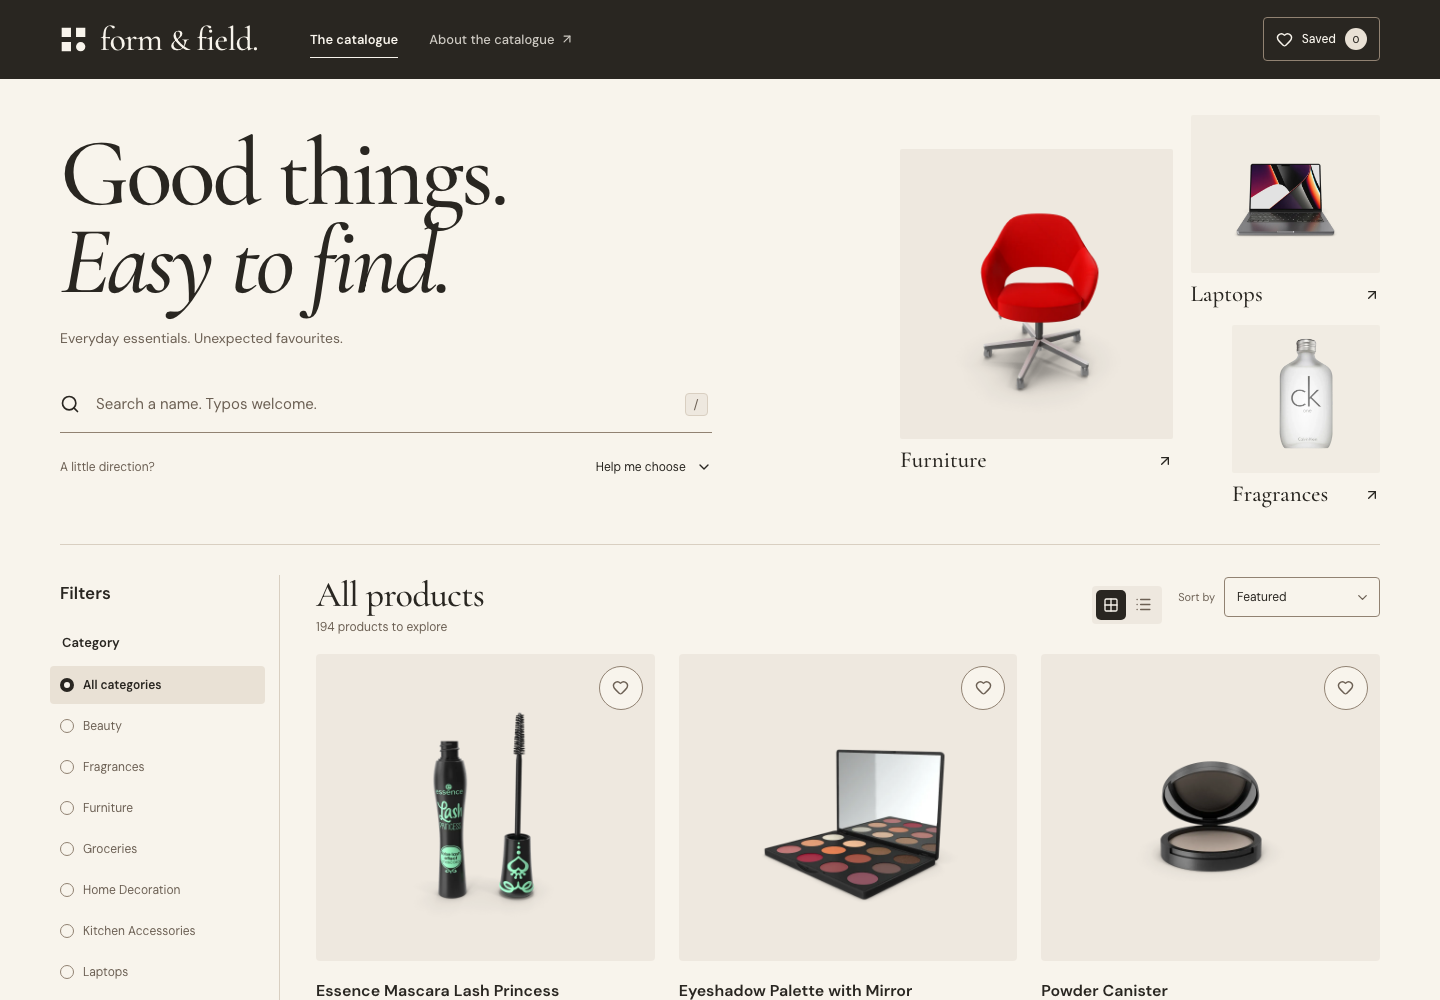
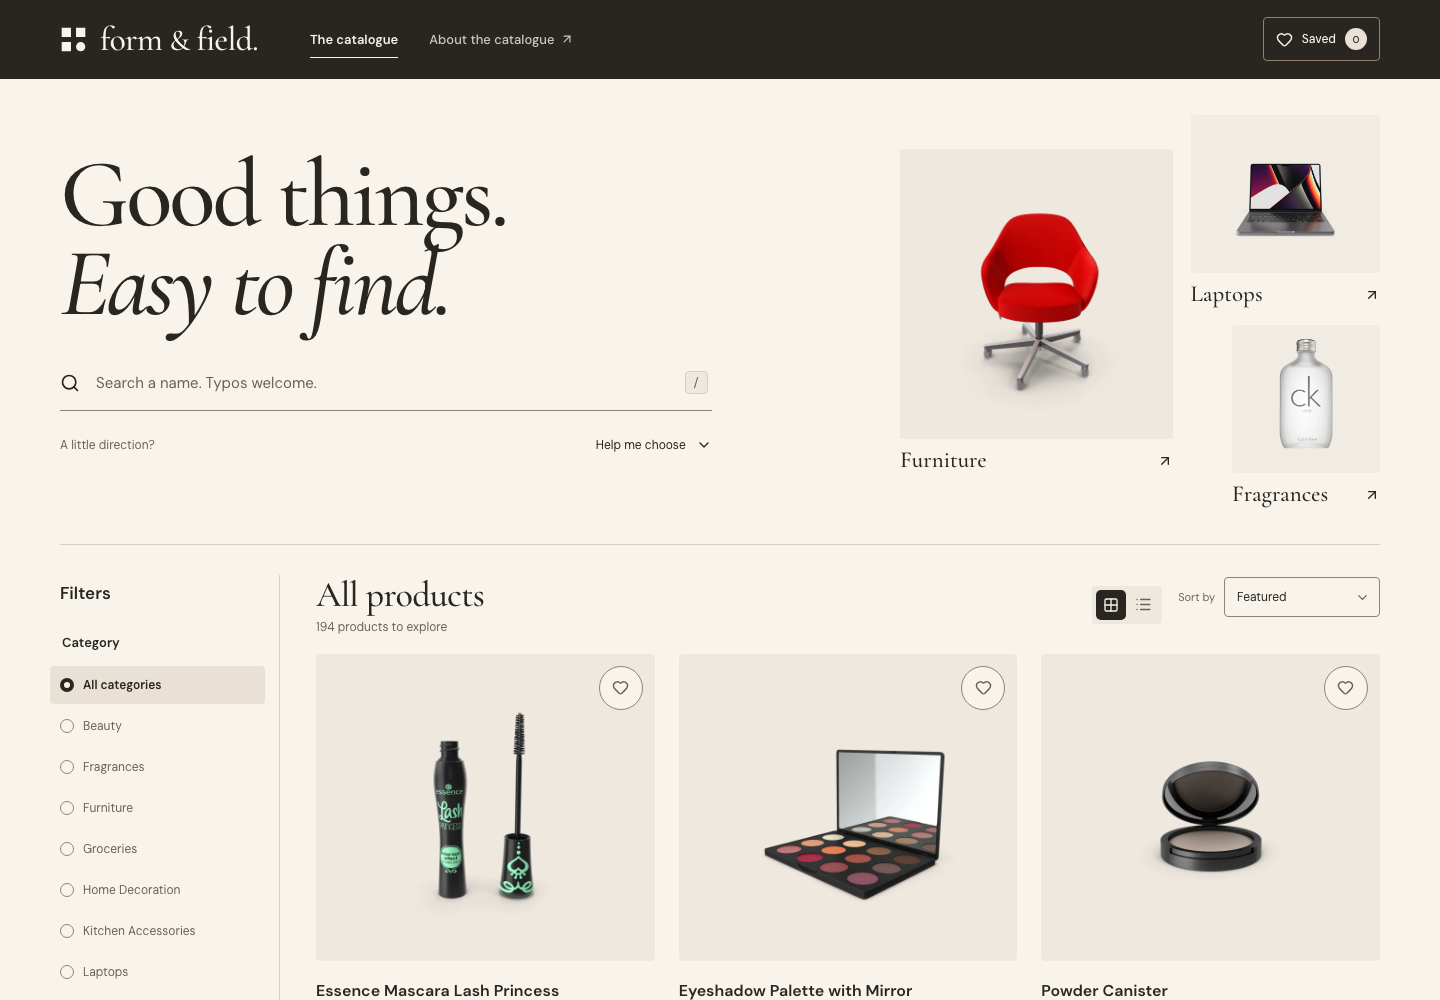
Remove introductory catalogue tagline

diff --git a/src/styles/boutique.css b/src/styles/boutique.css
@@ -74,12 +74,6 @@
   display: block;
   font-weight: inherit;
 }
-.intro-story > p {
-  margin-top: 20px;
-  font-size: 14px;
-  line-height: 1.7;
-  color: var(--muted);
-}
 .intro-search {
   grid-column: 1;
   grid-row: 2;
@@ -208,9 +202,6 @@
   .intro-story h1 {
     font-size: clamp(59px, 7vw, 76px);
   }
-  .intro-story > p {
-    font-size: 13px;
-  }
   .boutique-intro .category-spotlights {
     gap: 14px;
   }
@@ -233,10 +224,6 @@
   }
   .intro-story {
     padding-bottom: 18px;
-  }
-  .intro-story > p {
-    max-width: 28ch;
-    margin-top: 16px;
   }
   .boutique-intro .category-spotlights {
     gap: 12px;
@@ -279,11 +266,6 @@
   }
   .intro-story h1 {
     font-size: clamp(47px, 12.4vw, 67px);
-  }
-  .intro-story > p {
-    max-width: none;
-    margin-top: 12px;
-    font-size: 12px;
   }
   .intro-search .search-field {
     height: 52px;

diff --git a/src/components/CatalogueIntro.tsx b/src/components/CatalogueIntro.tsx
@@ -33,7 +33,6 @@ export function CatalogueIntro({
         <h1 id="page-title">
           Good things.<em>Easy to find.</em>
         </h1>
-        <p>Everyday essentials. Unexpected favourites.</p>
       </div>
       <div className="intro-search">
         <SearchBar
